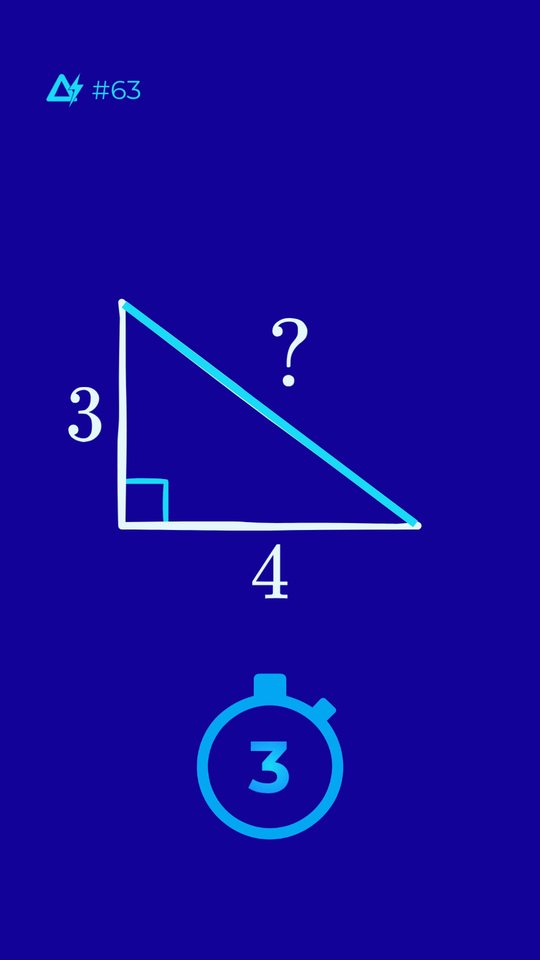
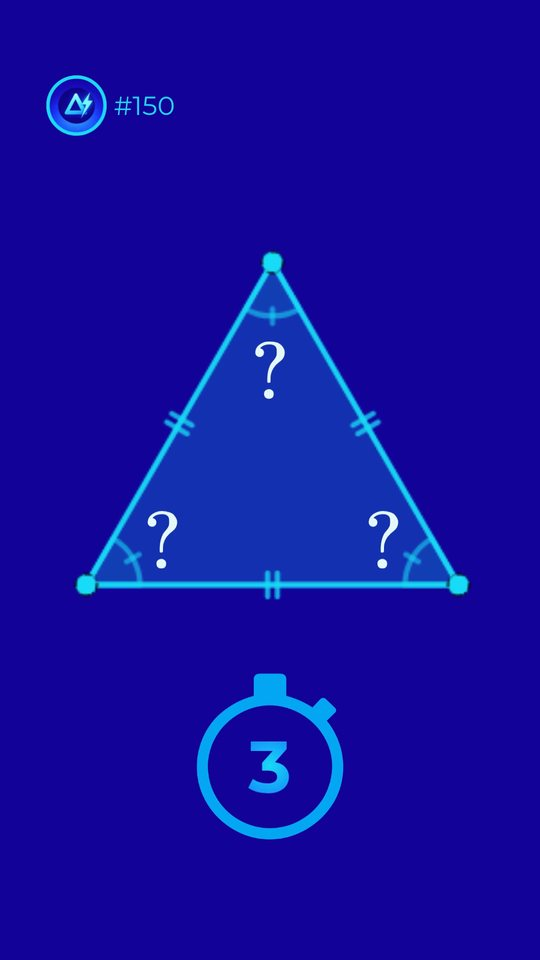
Geometry card: use the more recent video #150
Claude-Session: https://claude.ai/code/session_01UHiqdDtTUqJKU6VZbFxUcC

Changed region(s): [[0.1185, 0.25, 0.8889, 0.625], [0.0889, 0.0625, 0.3259, 0.1562]]

diff --git a/lib/btl.ts b/lib/btl.ts
@@ -26,7 +26,7 @@ export type BtlCategory = {
 export const btlCategories: BtlCategory[] = [
   { slug: "classics", name: "Classics", image: "/beat-the-lightning/cards/classics.jpg", imageAlt: "Beat the Lightning #143: 12² ÷ 6 × 2", playlistId: "" },
   { slug: "solve-for-x", name: "Solve for x", image: "/beat-the-lightning/cards/solve-for-x.jpg", imageAlt: "Beat the Lightning #118: 3x + 6x = 36", playlistId: "" },
-  { slug: "geometry", name: "Geometry", image: "/beat-the-lightning/cards/geometry.jpg", imageAlt: "Beat the Lightning #63: right triangle with sides 3 and 4", playlistId: "" },
+  { slug: "geometry", name: "Geometry", image: "/beat-the-lightning/cards/geometry.jpg", imageAlt: "Beat the Lightning #150: equilateral triangle, find the angles", playlistId: "" },
   { slug: "which-is-bigger", name: "Which is bigger?", image: "/beat-the-lightning/cards/which-is-bigger.jpg", imageAlt: "Beat the Lightning #166: which is bigger, 2⁵ or 5²?", playlistId: "" },
   { slug: "whats-next", name: "What’s next?", image: "/beat-the-lightning/cards/whats-next.jpg", imageAlt: "Beat the Lightning #114: 1, 3, 6, ?, 15", playlistId: "" },
   { slug: "lightning-mix", name: "Lightning Mix", image: "/beat-the-lightning/cards/lightning-mix.jpg", imageAlt: "Beat the Lightning #142: which is correct, x ≥ −1?", playlistId: "" },
